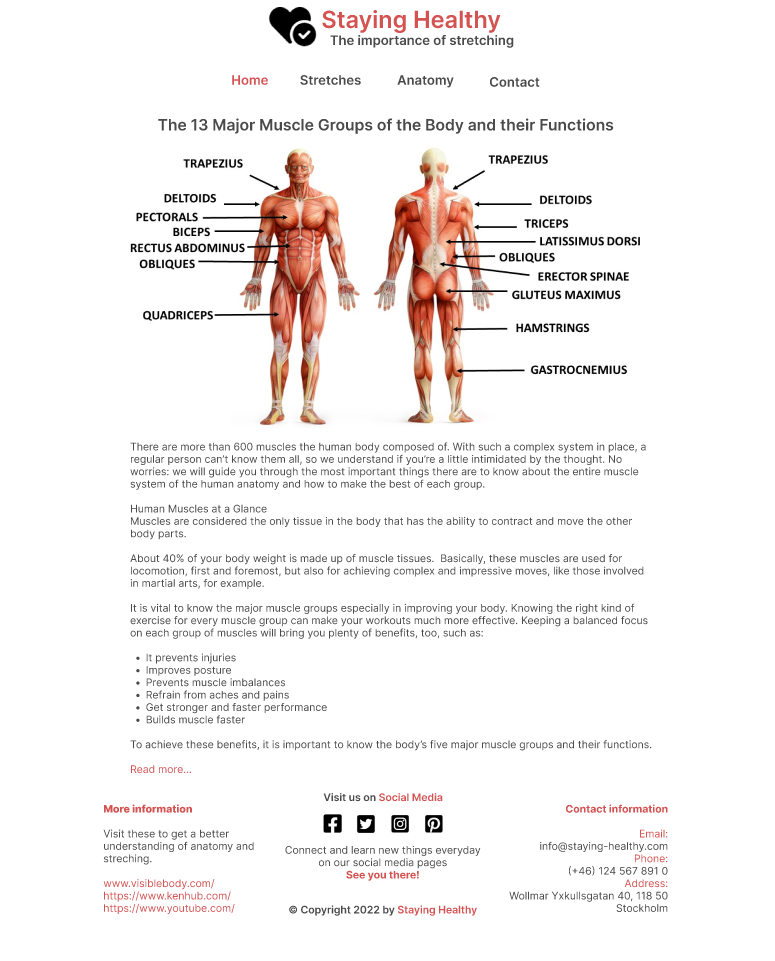
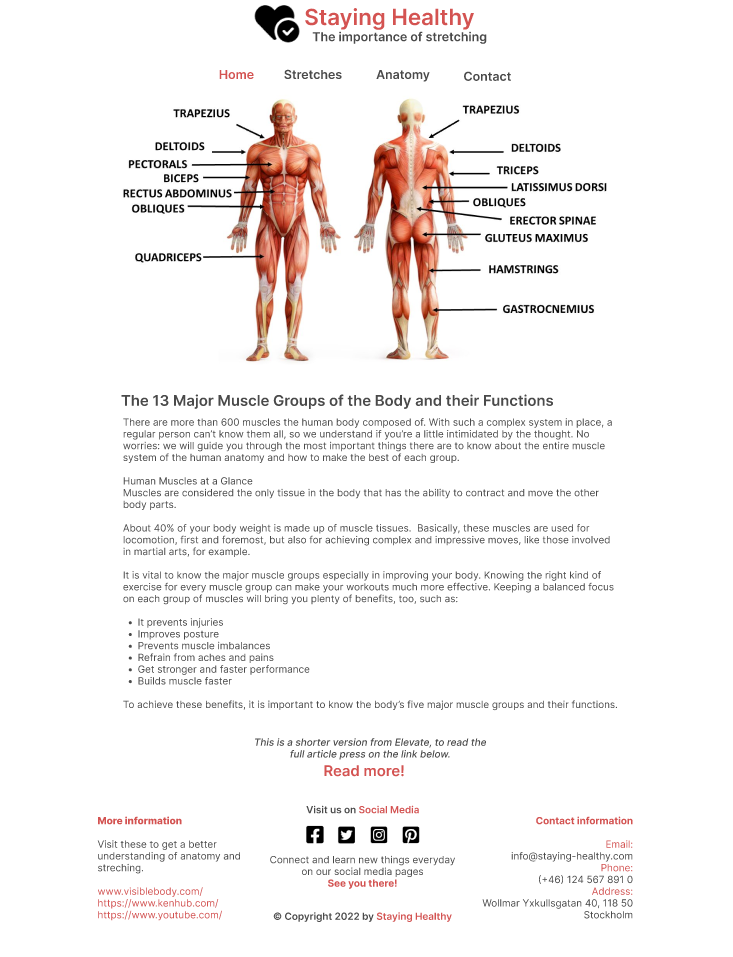
Add header text to index.html and style.css

Changed region(s): [[0.1201, 0.0, 0.8404, 0.9697], [0.6603, 0.8182, 0.8704, 0.9697], [0.3001, 0.0606, 0.3602, 0.0909]]

diff --git a/assets/css/style.css b/assets/css/style.css
@@ -4,6 +4,7 @@ body {
     font-family: Oswald, sans-serif;
     margin: 0;
     padding: 0;
+    color: #4a4a4a;
 }
 
 p {
@@ -12,39 +13,32 @@ p {
 
 header {
     width: 100%;
-    height: 150px;
-}
-
-.logo {
-    text-align: center;
-    font-size: 800%;
-}
-
-.logo h1 {
-    font-family: Oswald, sans-serif;
-    font-weight: 300;
-    font-size: 100%;
-    color: black;
-}
-
-
-
-.navigation {
-    width: 100%;
-    height: 75px;
-}
-
-.content {
-    width: 100%;
-    height: 400px;
-}
-
-footer {
-    width: 100%;
-    height: 250px;
-    font-size: 400%;
-    bottom: 0;
+    margin: 0 auto;
     position: absolute;
     text-align: center;
 }
 
+header div {
+    text-align: center;
+    display: inline;
+}
+
+.logo {
+    font-size: 3.5em;
+    display: inline-block;
+}
+
+.logo-text {
+    display: inline-block;
+    text-align: left;
+}
+
+.logo-text-staying-healthy {
+    font-size: 1.8em;
+    color: #DC5454;
+}
+
+.logo-text-undertext {
+    margin-top: -38px;
+    margin-left: 15px;
+}

diff --git a/index.html b/index.html
@@ -11,14 +11,14 @@
 <body>
 
     <header>
-        <div class="logo">
-            <i class="fa-solid fa-heart-circle-check"></i>
-            <h1>Staying Healthy</h1>
-            <h2>The importance of stretching</h2>
-        </div>
-
-        <div class="navigation">
-
+        <div>
+            <div class="logo ">
+                <i class="fa-solid fa-heart-circle-check"></i>
+            </div>
+            <div class="logo-text">
+                <p class="logo-text-staying-healthy">Staying Healthy</p>
+                <p class="logo-text-undertext">The importance of stretching</p>
+            </div>
         </div>
     </header>
     

diff --git a/README.md b/README.md
@@ -92,13 +92,19 @@ Color scheme:
 
 <details><summary>Stretch Page</summary>
 
-![stretch-page](assets/images/readme-files/stretch-page.png)
+![stretch-page](assets/images/readme-files/stretches-page.png)
 
 </details>
 
 <details><summary>Anatomy Page</summary>
 
 ![stretch-page](assets/images/readme-files/anatomy-page.png)
+
+</details>
+
+<details><summary>Contact Page</summary>
+
+![stretch-page](assets/images/readme-files/contact-page.png)
 
 </details>
 
